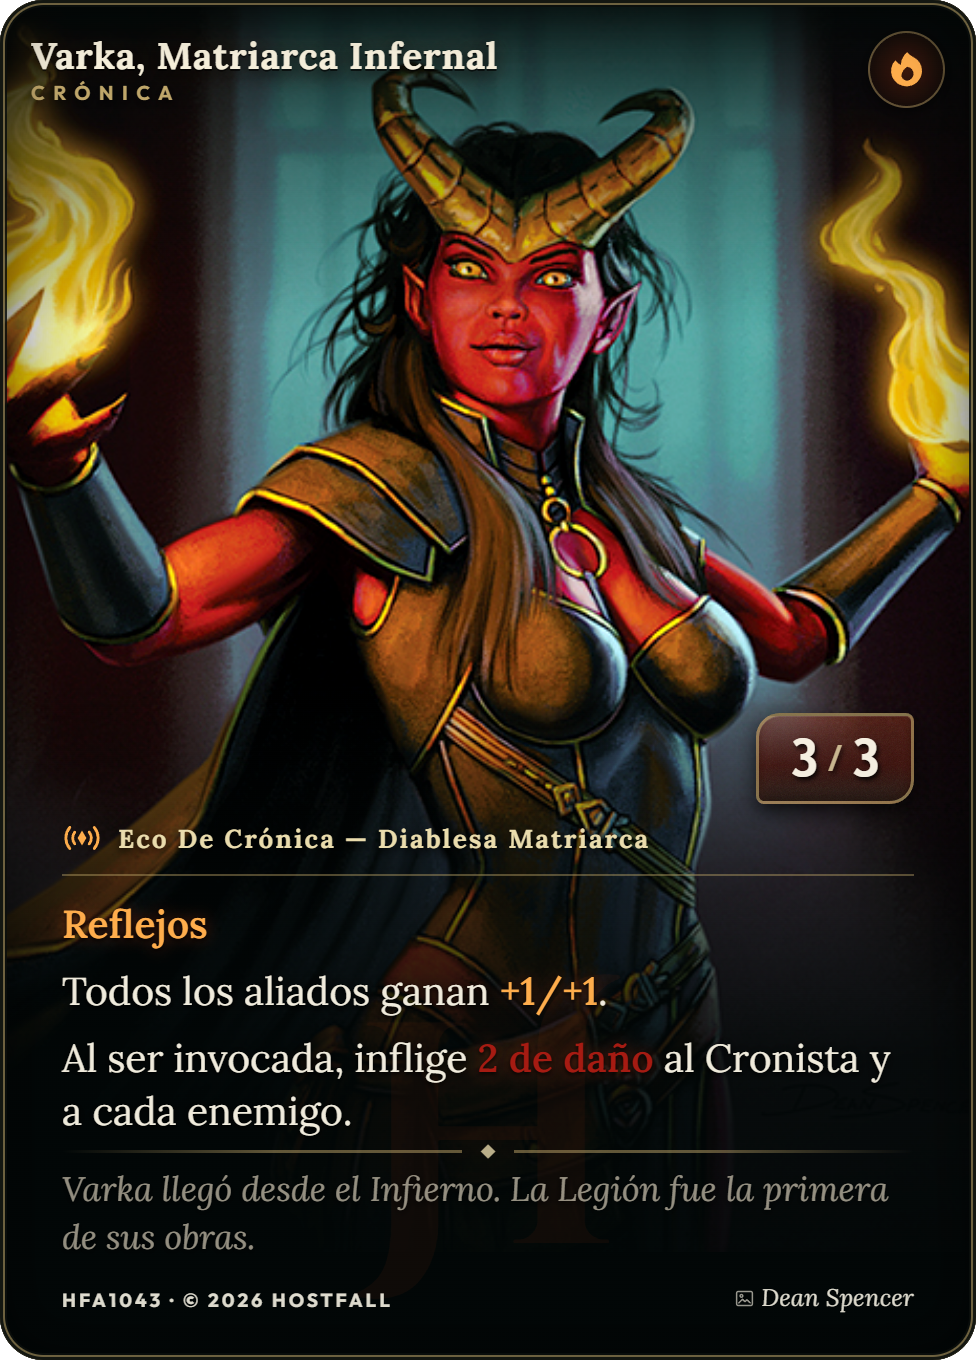
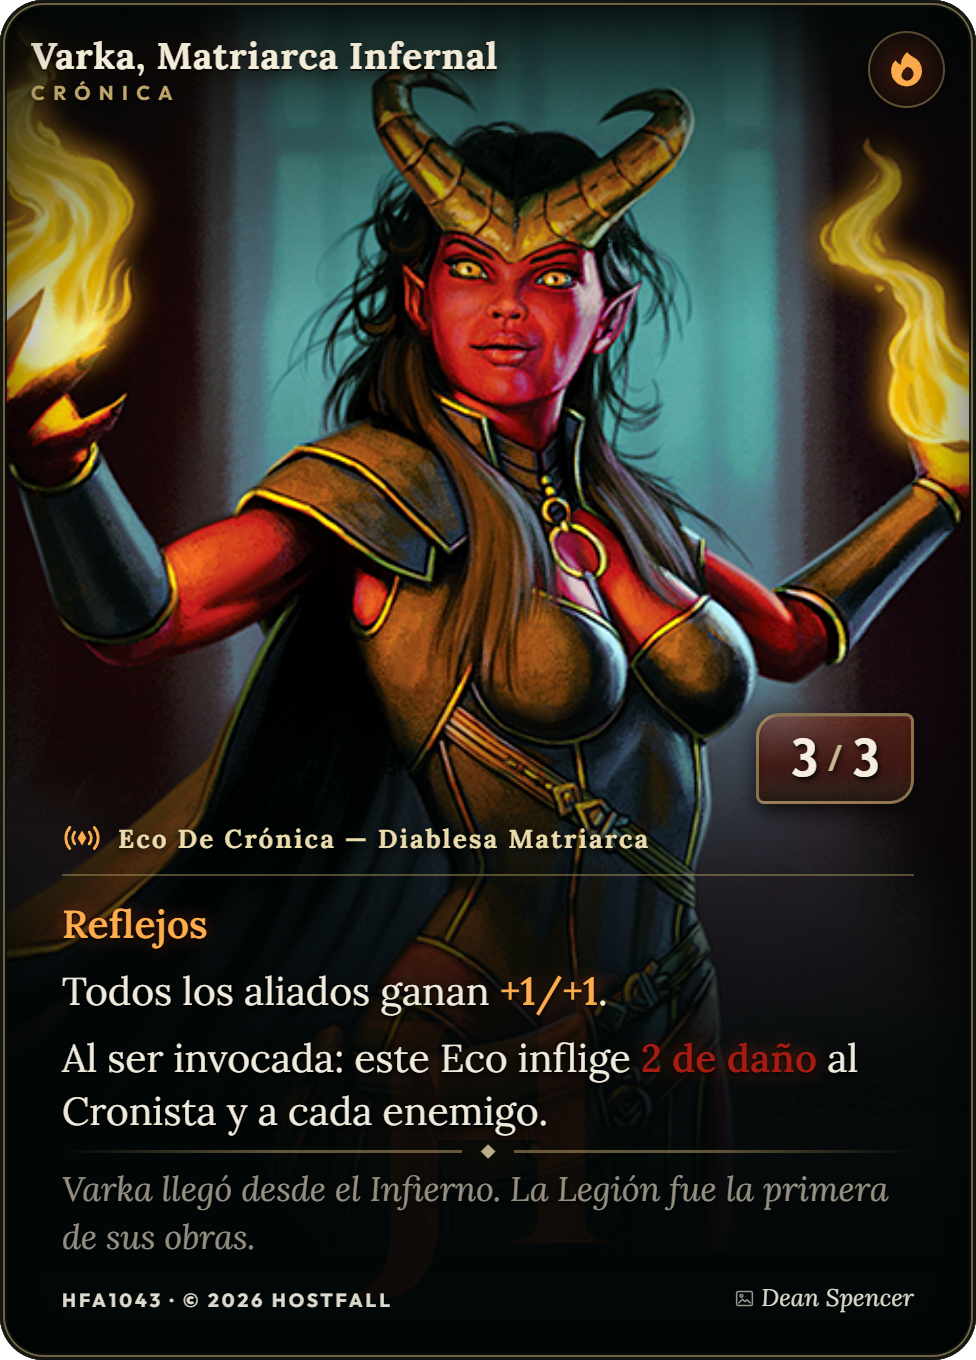
stable

Changed region(s): [[0.0615, 0.7721, 0.9221, 0.8338]]

diff --git a/dev/tools/Decks/legion_of_varka/deck-data.generated.js b/dev/tools/Decks/legion_of_varka/deck-data.generated.js
@@ -32,7 +32,7 @@ window.HostfallDeckData = [
     "costo": 3,
     "atk": 2,
     "def": 3,
-    "desc": "Los demás aliados ganan +1/+1. Al ser invocado, inflige al mejor enemigo tanto daño como la cantidad de Ecos invocados este turno.",
+    "desc": "Los demás aliados ganan +1/+1.\nAl ser invocado: la Hueste elige un enemigo; este Eco inflige a ese enemigo daño igual al número de aliados invocados este turno.",
     "lore": "No contaba a quienes llegaban, sino cuántos podía gastar todavía Varka.",
     "showFlavorText": false,
     "cantidad": 2,
@@ -54,7 +54,7 @@ window.HostfallDeckData = [
     "costo": 2,
     "atk": 1,
     "def": 1,
-    "desc": "Los demás aliados ganan +1/+1. Cada vez que un aliado muera, mira la primera carta del Archivo. Si es un Eco, Invócalo. Si no, ponla al fondo del Archivo.",
+    "desc": "Los demás aliados ganan +1/+1.\nCada vez que un aliado muera: mira la primera carta del Archivo. Si es un Eco, Invócalo. Si no, ponla al fondo del Archivo.",
     "lore": "En la Legión, caer no dejaba un hueco. Abría el lugar del siguiente.",
     "showFlavorText": false,
     "cantidad": 2,
@@ -70,7 +70,7 @@ window.HostfallDeckData = [
     "costo": 2,
     "atk": 2,
     "def": 2,
-    "desc": "Al ser invocado, los aliados ganan +1/+0 hasta el final del turno.",
+    "desc": "Al ser invocado: los aliados ganan +1/+0 hasta el final del turno.",
     "lore": "Donde alzaba el estandarte, hasta los cobardes encontraban una razón para avanzar.",
     "showFlavorText": true,
     "cantidad": 2,
@@ -113,7 +113,7 @@ window.HostfallDeckData = [
     "costo": 3,
     "atk": null,
     "def": null,
-    "desc": "Después de resolver el ataque de la Hueste, cada Eco atacante con Fuerza 2 o menos aporta 1 de daño a una salva contra el Cronista.",
+    "desc": "Al terminar el ataque de la Hueste: la Hueste inflige 1 de daño al Cronista por cada Trasgo atacante con Fuerza 2 o menos.",
     "lore": "Ninguno tenía fuerza suficiente. Por eso atacaban todos a la vez.",
     "showFlavorText": false,
     "cantidad": 1,
@@ -134,7 +134,7 @@ window.HostfallDeckData = [
     "costo": 4,
     "atk": 2,
     "def": 2,
-    "desc": "Al ser invocado, Invoca dos Esbirros de Varka.",
+    "desc": "Al ser invocado: Invoca dos Esbirros de Varka.",
     "lore": "Dos cargan las herramientas. El jefe carga el mérito.",
     "showFlavorText": true,
     "cantidad": 2,
@@ -155,7 +155,7 @@ window.HostfallDeckData = [
     "costo": 5,
     "atk": 2,
     "def": 2,
-    "desc": "Al ser invocado, Invoca tres Esbirros de Varka.",
+    "desc": "Al ser invocado: Invoca tres Esbirros de Varka.",
     "lore": "El tercer toque abrió la compuerta y tres nuevas cuadrillas inundaron la calle.",
     "showFlavorText": true,
     "cantidad": 2,
@@ -176,7 +176,7 @@ window.HostfallDeckData = [
     "costo": 3,
     "atk": 2,
     "def": 2,
-    "desc": "Al comienzo de la Batalla de la Hueste, Invoca un Esbirro de Varka. Cuando ataque, gana +1/+0 por cada otro Trasgo atacante.",
+    "desc": "Al comienzo de la Batalla de la Hueste: Invoca un Esbirro de Varka.\nCuando este Eco ataque: gana +1/+0 hasta el final del turno por cada otro Trasgo atacante.",
     "lore": "Corría al frente para que cada Trasgo detrás de él pareciera parte del mismo golpe.",
     "showFlavorText": false,
     "cantidad": 1,
@@ -196,7 +196,7 @@ window.HostfallDeckData = [
     "costo": 3,
     "atk": null,
     "def": null,
-    "desc": "La Hueste elige uno: sus aliados ganan +2/+0 hasta el final del turno; o comienza otra ronda de Revelado.",
+    "desc": "Si la Hueste controla al menos un aliado: sus aliados ganan +2/+0 hasta el final del turno. Si no, comienza otra ronda de Revelado.",
     "lore": "Tras cada compuerta hay refuerzos o suficiente fuego para fingirlos.",
     "showFlavorText": false,
     "cantidad": 3,
@@ -238,7 +238,7 @@ window.HostfallDeckData = [
     "costo": 4,
     "atk": 4,
     "def": 2,
-    "desc": "Volar\nAl ser invocado, inflige al mejor enemigo tanto daño como la cantidad de aliados en el Campo.",
+    "desc": "Volar\nAl ser invocado: la Hueste elige un enemigo; este Eco inflige a ese enemigo daño igual al número de aliados en el Campo.",
     "lore": "Contaba las voces de la Legión y convertía cada una en otro proyectil.",
     "showFlavorText": true,
     "cantidad": 1,
@@ -259,7 +259,7 @@ window.HostfallDeckData = [
     "costo": 3,
     "atk": 3,
     "def": 3,
-    "desc": "Reflejos\nTodos los aliados ganan +1/+1. Al ser invocada, inflige 2 de daño al Cronista y a cada enemigo.",
+    "desc": "Reflejos\nTodos los aliados ganan +1/+1.\nAl ser invocada: este Eco inflige 2 de daño al Cronista y a cada enemigo.",
     "lore": "Varka llegó desde el Infierno. La Legión fue la primera de sus obras.",
     "showFlavorText": true,
     "cantidad": 2,
@@ -303,7 +303,7 @@ window.HostfallDeckData = [
     "costo": 3,
     "atk": 2,
     "def": 2,
-    "desc": "Cuando los Trasgos aliados atacan, Invoca un Esbirro de Varka atacando. Cada vez que otro aliado sea invocado, el Cronista pierde 1 de Vida.",
+    "desc": "Cuando uno o más Trasgos aliados ataquen: Invoca un Esbirro de Varka atacando.\nCada vez que otro aliado sea invocado: el Cronista pierde 1 de Vida.",
     "lore": "No medía la oleada por quienes llegaban, sino por cuántos golpes podía hacer sonar a la vez.",
     "showFlavorText": false,
     "cantidad": 1,
@@ -324,7 +324,7 @@ window.HostfallDeckData = [
     "costo": 3,
     "atk": 1,
     "def": 2,
-    "desc": "Cuando ataque, pon un contador +1/+1 sobre esta carta. Luego Invoca esa cantidad de Esbirros de Varka atacando.",
+    "desc": "Cuando este Eco ataque: pon un contador +1/+1 sobre este Eco. Después, Invoca una cantidad de Esbirros de Varka atacando igual a su Fuerza.",
     "lore": "Cada marca hacía más grande su leyenda y más numerosa la escolta que exigía.",
     "showFlavorText": false,
     "cantidad": 1,
@@ -344,7 +344,7 @@ window.HostfallDeckData = [
     "costo": 3,
     "atk": 2,
     "def": 2,
-    "desc": "Cada vez que un Trasgo aliado muera, inflige 1 de daño a un enemigo aleatorio.",
+    "desc": "Cada vez que un Trasgo aliado muera: este Eco inflige 1 de daño a un enemigo aleatorio.",
     "lore": "Para él, cada Trasgo muerto dejaba dos cosas: un hueco en la fila y munición.",
     "showFlavorText": true,
     "cantidad": 2,

diff --git a/tests/deckLint.test.js b/tests/deckLint.test.js
@@ -441,6 +441,7 @@ test("Goblins keep Hostfall card kinds, modifiers and traits through authored no
   );
 
   const rawById = Object.fromEntries(entry.raw.cards.map((card) => [card.id, card]));
+  const rulesById = Object.fromEntries(entry.raw.cards.map((card) => [card.id, card.gameText.es]));
   assert.deepEqual(rawById.varkas_minion.kinds, ["ECHO", "TOKEN"]);
   assert.deepEqual(rawById.the_daunting_front.kinds, ["SUPPORT"]);
   assert.equal(rawById.the_daunting_front.name, "The Daunting Front");
@@ -457,11 +458,31 @@ test("Goblins keep Hostfall card kinds, modifiers and traits through authored no
   assert.equal(rawById.varka_infernal_matriarch.abilities[0].effects[0].scope.filters.excludeSelf, undefined);
   assert.deepEqual(rawById.varka_infernal_matriarch.traits, ["REFLEX"]);
   assert.deepEqual(rawById.varka_infernal_matriarch.modifiers, ["CHRONICLE"]);
+  assert.equal(rawById.varkas_forgemaster.abilities.length, 1);
   assert.equal(rawById.marshal_of_the_wave.modifiers, undefined);
   assert.equal(rawById.vardek_scribe_of_the_legion.modifiers, undefined);
   assert.equal(rawById.rear_guard_firebreather.modifiers, undefined);
   assert.equal(rawById.rear_guard_firebreather.abilities[0].trigger.event, "ECHO_DIED");
   assert.equal(rawById.rear_guard_firebreather.abilities[0].conditions[0].eventObject, "echo");
+  assert.deepEqual(rulesById, {
+    varkas_minion: "Sin efecto adicional.",
+    shaman_of_the_umbral_ember: "Los demás aliados ganan +1/+1.\nAl ser invocado: la Hueste elige un enemigo; este Eco inflige a ese enemigo daño igual al número de aliados invocados este turno.",
+    summoner_of_the_ranks: "Los demás aliados ganan +1/+1.\nCada vez que un aliado muera: mira la primera carta del Archivo. Si es un Eco, Invócalo. Si no, ponla al fondo del Archivo.",
+    varkas_standard_bearer: "Al ser invocado: los aliados ganan +1/+0 hasta el final del turno.",
+    the_daunting_front: "Los aliados ganan Imponente.",
+    all_against_one: "Al terminar el ataque de la Hueste: la Hueste inflige 1 de daño al Cronista por cada Trasgo atacante con Fuerza 2 o menos.",
+    chief_of_the_double_guard: "Al ser invocado: Invoca dos Esbirros de Varka.",
+    rider_of_the_third_charge: "Al ser invocado: Invoca tres Esbirros de Varka.",
+    varkas_linebreaker: "Al comienzo de la Batalla de la Hueste: Invoca un Esbirro de Varka.\nCuando este Eco ataque: gana +1/+0 hasta el final del turno por cada otro Trasgo atacante.",
+    unleash_the_legion: "Si la Hueste controla al menos un aliado: sus aliados ganan +2/+0 hasta el final del turno. Si no, comienza otra ronda de Revelado.",
+    corrupted_war_bear: "Sin efecto adicional.",
+    rider_of_the_umbral_volley: "Al ser invocado: la Hueste elige un enemigo; este Eco inflige a ese enemigo daño igual al número de aliados en el Campo.",
+    varka_infernal_matriarch: "Todos los aliados ganan +1/+1.\nAl ser invocada: este Eco inflige 2 de daño al Cronista y a cada enemigo.",
+    varkas_forgemaster: "Los demás Trasgos aliados ganan +1/+1.",
+    marshal_of_the_wave: "Cuando uno o más Trasgos aliados ataquen: Invoca un Esbirro de Varka atacando.\nCada vez que otro aliado sea invocado: el Cronista pierde 1 de Vida.",
+    vardek_scribe_of_the_legion: "Cuando este Eco ataque: pon un contador +1/+1 sobre este Eco. Después, Invoca una cantidad de Esbirros de Varka atacando igual a su Fuerza.",
+    rear_guard_firebreather: "Cada vez que un Trasgo aliado muera: este Eco inflige 1 de daño a un enemigo aleatorio.",
+  });
 
   const normalizedAuthoring = normalizeAuthoredDeck(entry.raw);
   const byId = Object.fromEntries(normalizedAuthoring.cards.map((card) => [card.id, card]));

diff --git a/docs/host_legion_of_varka.md b/docs/host_legion_of_varka.md
@@ -2,7 +2,7 @@
 
 Estado: **integrada en runtime y Card Studio; identidad técnica Hostfall final**
 Deck actual: `legion_of_varka` / `La Legión de Varka`
-Última actualización: 2026-08-01
+Última actualización: 2026-08-05
 
 Este documento conserva la identidad narrativa, el mapeo mecánico y la dirección visual de la
 Legión. Los 17 nombres y sus flavor bilingües viven en
@@ -54,14 +54,14 @@ mando convierten esa presión colectiva en crecimiento, refuerzos o daño direct
 | `all_against_one` | **Todos contra uno** | Apoyo; cada Trasgo atacante de Fuerza 2 o menos aporta 1 de daño. | Muchas manos débiles lanzan remaches que por separado son insignificantes y juntos forman una salva. |
 | `chief_of_the_double_guard` | **Jefe de la Doble Guardia** | 2/2; al entrar Invoca exactamente dos Esbirros de Varka. | Un jefe llega con dos ayudantes y un cajón de herramientas compartido. |
 | `rider_of_the_third_charge` | **Jinete de la Tercera Carga** | 2/2; al entrar Invoca exactamente tres Esbirros de Varka. | Un jinete trasgo abre la tercera carga y arrastra consigo tres nuevos esbirros. |
-| `varkas_linebreaker` | **Rompefilas de Varka** | 2/2; antes de atacar Invoca un Esbirro de Varka y crece por los otros Trasgos atacantes. | La primera sirena abre un portón para un corredor nuevo; la multitud que responde agranda al agitador. |
-| `unleash_the_legion` | **¡Liberen a la Legión!** | Hechizo rápido; da +2/+0 al ejército existente o inicia otra ronda de revelado si no hay criaturas. | Una compuerta explota hacia afuera: detrás puede haber refuerzos o una oleada de presión ofensiva. |
+| `varkas_linebreaker` | **Rompefilas de Varka** | 2/2; antes de atacar Invoca un Esbirro de Varka y gana +1/+0 hasta el final del turno por cada otro Trasgo atacante. | La primera sirena abre un portón para un corredor nuevo; la multitud que responde agranda al agitador. |
+| `unleash_the_legion` | **¡Liberen a la Legión!** | Hechizo rápido; da +2/+0 al ejército existente o inicia otra ronda de Revelado si la Hueste no controla aliados. | Una compuerta explota hacia afuera: detrás puede haber refuerzos o una oleada de presión ofensiva. |
 | `corrupted_war_bear` | **Oso de Guerra Corrompido** | Eco Bestia/Oso vanilla 3/3. | Una bestia sometida a la maquinaria de guerra de la Legión. |
 | `rider_of_the_umbral_volley` | **Jinete de la Salva Umbría** | 4/2; al entrar daña un Eco enemigo según la cantidad de Ecos aliados en el Campo, incluido él mismo. | Jinete orco que mide la salva por todas las voces que responden. |
 | `varka_infernal_matriarch` | **Varka, Matriarca Infernal** | Eco de Crónica 3/3 impresa y 4/4 por su propia Pasiva; Reflejos, +1/+1 a todos los Ecos aliados y 2 de daño global al entrar. | Varka convierte sus cadenas en un círculo de fuego que alcanza a todos sus enemigos. |
 | `varkas_forgemaster` | **Forjador de Varka** | 3/3; da +1/+1 a otros Trasgos. | Armero que remacha placas rescatadas sobre los demás y deja su propia silueta sin el beneficio del aura. |
-| `marshal_of_the_wave` | **Mariscal de la Oleada** | 2/2; una declaración de ataque Invoca un Esbirro de Varka y cada otra llegada causa 1 de daño al Cronista. | Mariscal que abre una salida lateral para un atacante y sincroniza cada nuevo martillo con un golpe de ariete. |
-| `vardek_scribe_of_the_legion` | **Vardek, Escriba de la Legión** | 1/2; al atacar gana un contador +1/+1 e Invoca esa cantidad de Esbirros de Varka. | Vardek marca cada victoria en su armadura y hace aparecer a la cuadrilla que viene a cobrarla. |
+| `marshal_of_the_wave` | **Mariscal de la Oleada** | 2/2; una declaración con uno o más Trasgos Invoca un Esbirro atacando; cada otra llegada causa 1 de daño al Cronista. | Mariscal que abre una salida lateral para un atacante y sincroniza cada nuevo martillo con un golpe de ariete. |
+| `vardek_scribe_of_the_legion` | **Vardek, Escriba de la Legión** | 1/2; al atacar gana un contador +1/+1 y después Invoca Esbirros atacando según su Fuerza resultante. | Vardek marca cada victoria en su armadura y hace aparecer a la cuadrilla que viene a cobrarla. |
 | `rear_guard_firebreather` | **Escupefuego de la Retaguardia** | 2/2; cada muerte de un Trasgo hace 1 de daño a un Eco enemigo aleatorio. | Recoge el último remache de cada aliado caído y lo dispara de inmediato contra una silueta enemiga. |
 
 ## Eco de Crónica
@@ -70,6 +70,19 @@ mando convierten esa presión colectiva en crecimiento, refuerzos o daño direct
 `modifiers: ["CHRONICLE"]`. `marshal_of_the_wave`, `vardek_scribe_of_the_legion` y
 `rear_guard_firebreather` conservan sus reglas, estadísticas y cantidades, pero ya no declaran ese
 modificador. El cambio resuelve la decisión narrativa pendiente sin introducir una mecánica nueva.
+
+## Contratos mecánicos de redacción
+
+- Chamán de la Brasa Sombría y Jinete de la Salva Umbría hacen que la Hueste elija automáticamente
+  un enemigo mediante `BEST_LETHAL`; el texto no presenta esa selección como una decisión del
+  Cronista.
+- Todos contra uno cuenta únicamente Trasgos atacantes con Fuerza 2 o menos, capturados al declarar
+  el ataque, y aplica la suma al terminar toda la secuencia.
+- El daño de entrada de Varka se resuelve como un único evento para el Cronista y cada enemigo; el
+  texto impreso lo expresa como una sola instrucción de daño.
+- La cantidad de Esbirros creada por Vardek usa su Fuerza después de colocar el contador +1/+1.
+- Forjador de Varka conserva sólo su Pasiva de +1/+1 a los demás Trasgos; su antigua Acción de
+  sacrificio permanece retirada del corte.
 
 ## Contrato de datos y exportación
 

diff --git a/CLAUDE.MD b/CLAUDE.MD
@@ -125,6 +125,11 @@ Contratos particulares de la Corte: Paje de la Sed exige estar preparado en la p
 de Vida del turno; Duelista del Eclipse no puede actuar mientras está Estabilizándose; Mirevna
 paga la mitad de la Vida actual redondeada hacia arriba.
 
+Contratos particulares de la Legión: Todos contra uno cuenta sólo Trasgos atacantes con Fuerza 2
+o menos; Vardek crea Esbirros atacando según su Fuerza después de recibir el contador; el daño de
+entrada de Varka se resuelve como un único evento; la antigua Acción de sacrificio del Forjador
+está retirada y no debe reintroducirse.
+
 Chaos Mode está deprecated y oculto. Se conserva únicamente por compatibilidad y pruebas; no debe
 recibir features sin una decisión explícita.
 
